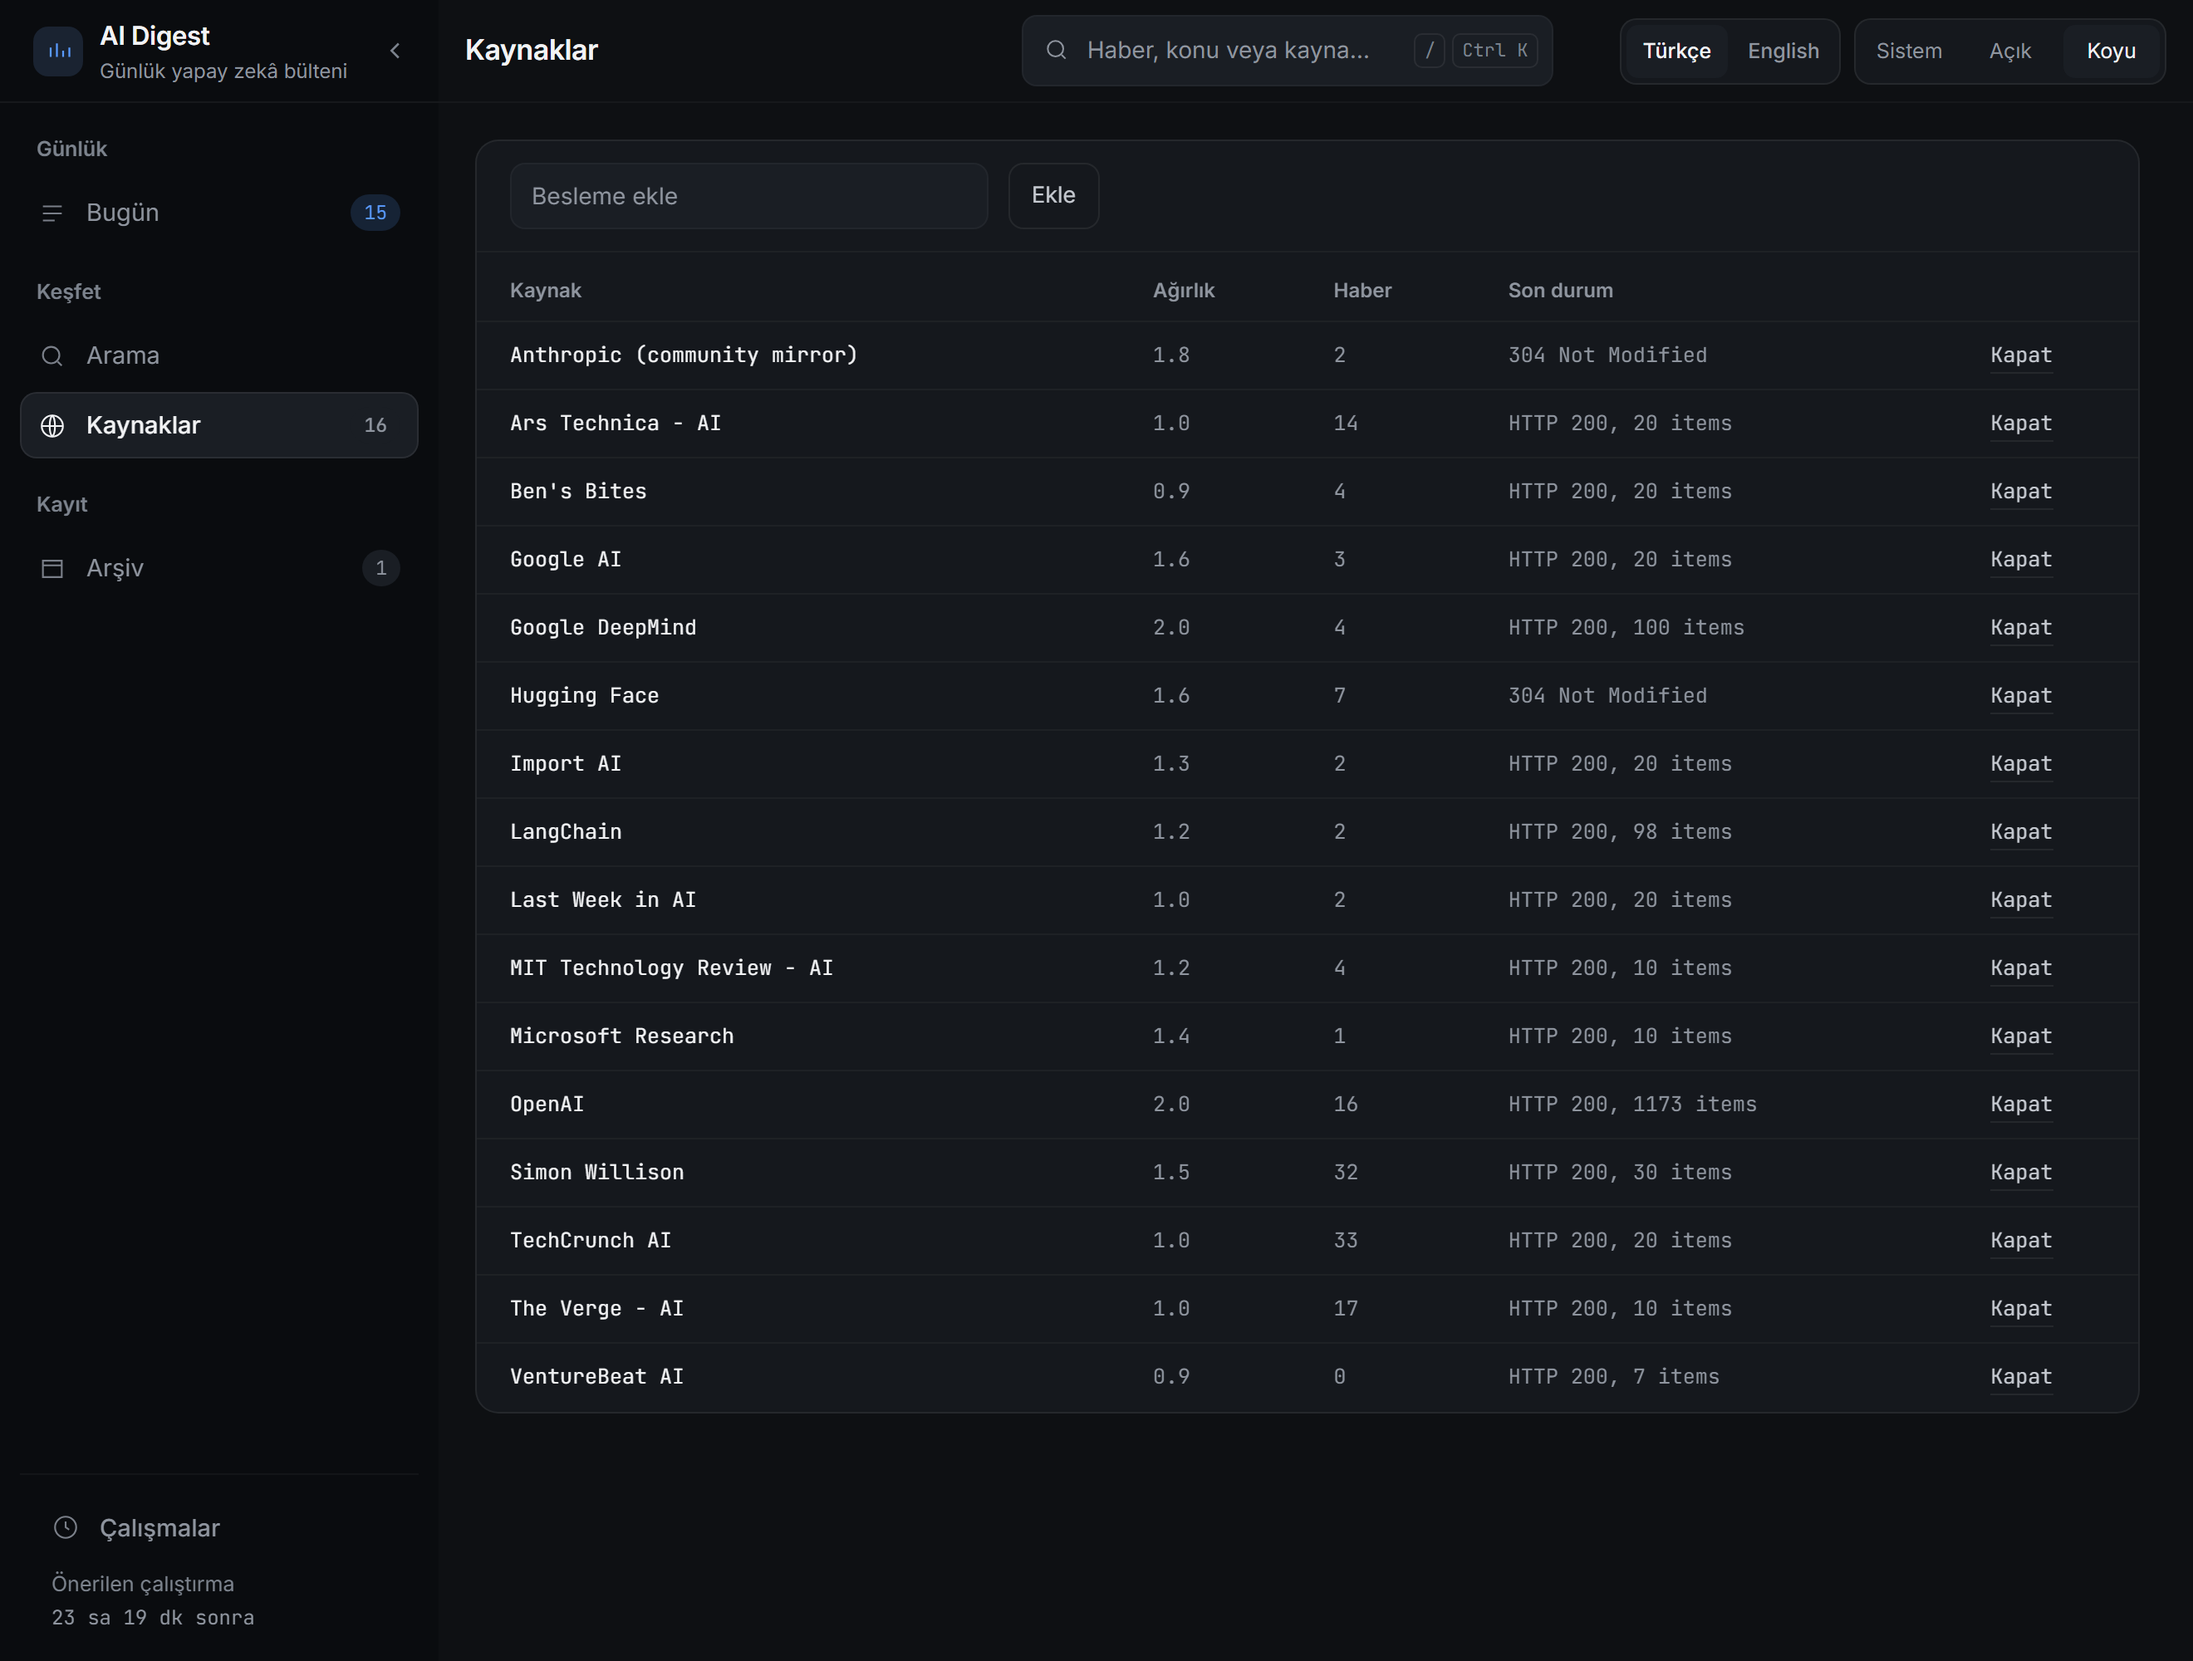
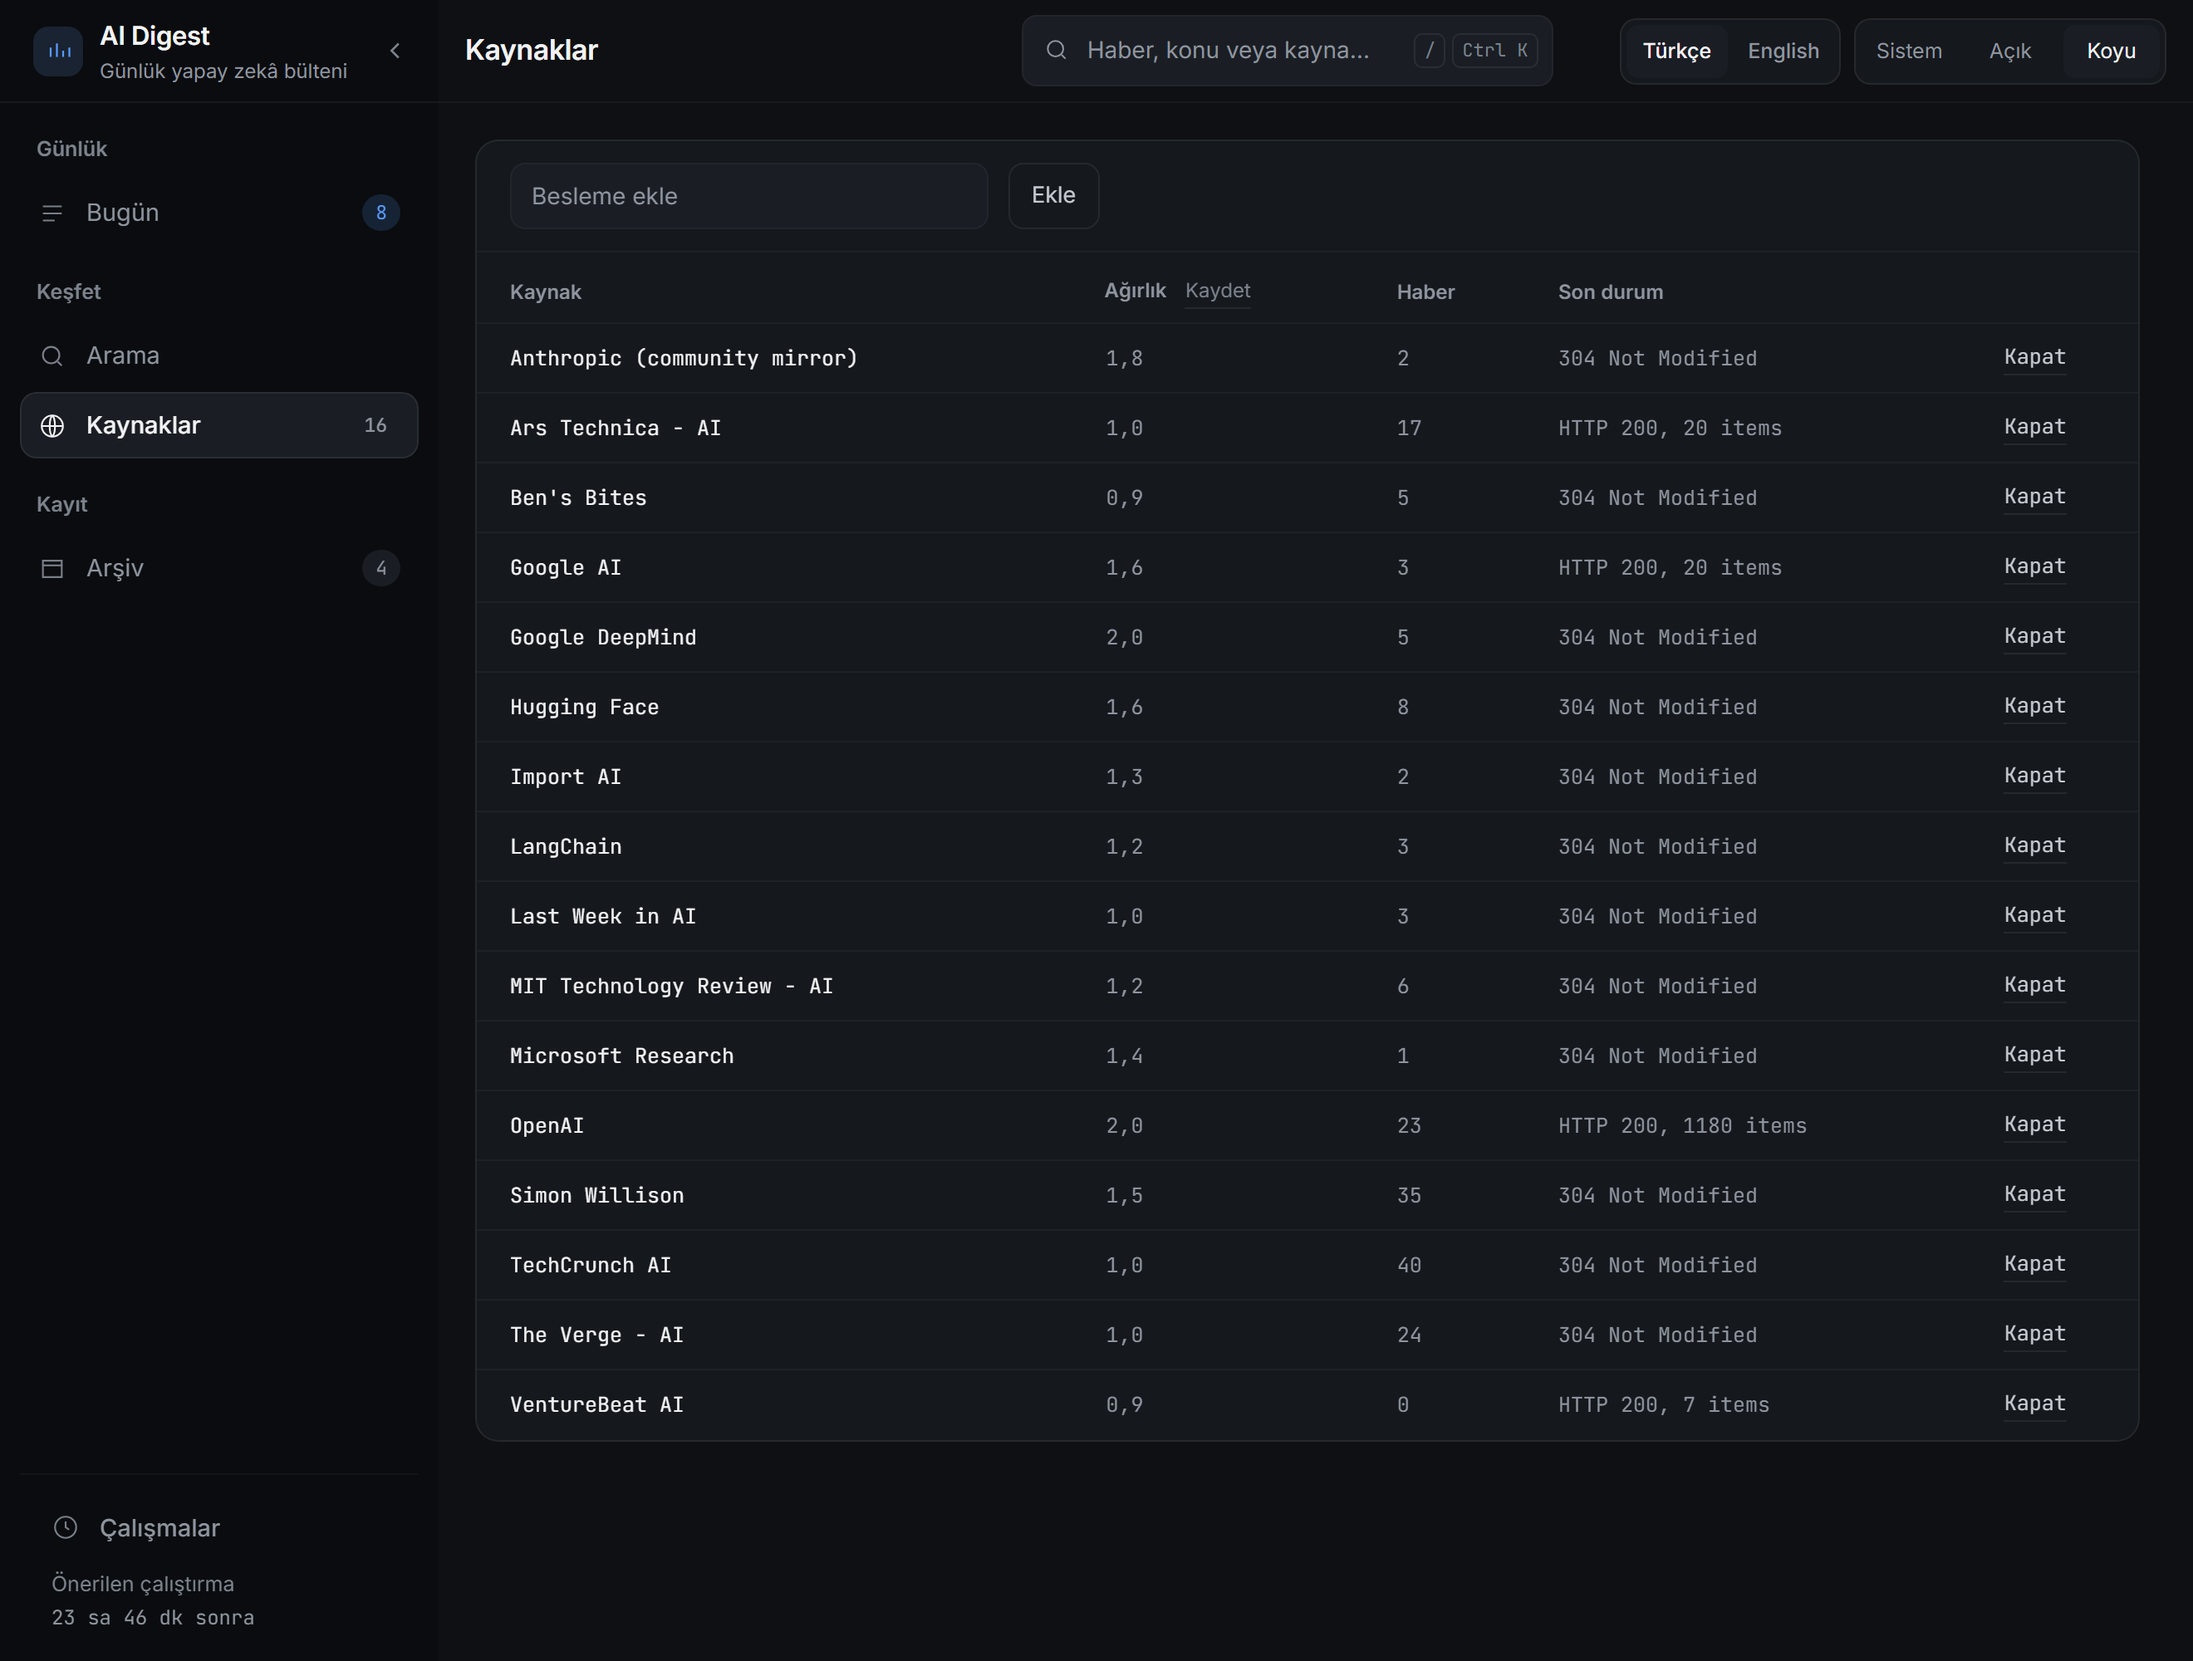
The README is photographed against today's press
Eight shots against the 09-09 run: 32 summarised over a 129-candidate pool, the
first bulletin whose agreement is measured on both halves of the gate. The run
detail's window grows to 960 - the free checks under the step table were being
cut in half by a window shorter than the page, which `main` does not scroll.

diff --git a/scripts/screenshots.py b/scripts/screenshots.py
@@ -63,7 +63,10 @@ SHOTS: list[Shot] = [
     # `{run}` is filled in with the newest bulletin's id: the page is about one
     # run, and hard-coding an id would make the script stop working the first
     # time the database it reads is not the one it was written against.
-    Shot("/runs/{run}?theme=dark", "run-detail.png", height=640),
+    # 960 is the six-node table plus the free checks under it: `main` is the
+    # height of its content and the shell clips it at the window, so a window
+    # shorter than the page cuts a block in half rather than scrolling it.
+    Shot("/runs/{run}?theme=dark", "run-detail.png", height=960),
     Shot("/runs/verdicts?theme=dark", "verdicts.png"),
     Shot("/search?q=model&theme=dark", "search.png"),
     Shot("/archive?theme=light", "archive-light.png"),

diff --git a/README.md b/README.md
@@ -239,8 +239,9 @@ and 0.50** on the two real runs — both under the 0.6 gate. Those two readings
 were taken while the page still ignored the ranker's order, and the gate has
 since become `min(τ, chance-corrected Jaccard)`: fifteen picks out of twenty-seven
 candidates overlap 38% by coin flip, so an uncorrected set score measures the
-size of the pool rather than the ranker. The next real run is the first reading
-that counts on both halves.
+size of the pool rather than the ranker. The press pictured above is the first
+reading that counts on both halves, and the three passes agree **0.40** — still
+under the gate, and now about an order the page reads.
 
 ![How the evaluation works](docs/eval-architecture.png)
 
